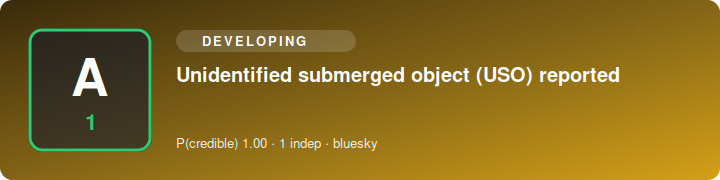
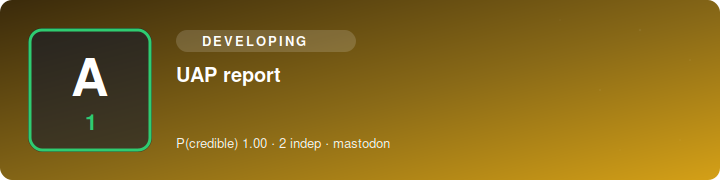
SITREP 2026-07-28 06:30 UTC

Changed region(s): [[0.2444, 0.3611, 0.8861, 0.4722], [0.4583, 0.75, 0.55, 0.8333], [0.3667, 0.75, 0.3972, 0.8333]]

diff --git a/index.html b/index.html
@@ -1,1 +1,1 @@
-<!doctype html><meta charset=utf-8><title>Science Bob News — SITREP</title><style>body{font:16px/1.5 system-ui,sans-serif;max-width:760px;margin:2rem auto;padding:0 1rem;color:#111}h1{font-size:1.5rem}h2{margin-top:1.6rem;border-bottom:1px solid #ddd;padding-bottom:.2rem}ul{list-style:none;padding:0}li{margin:.9rem 0}.hl{font-weight:600}.meta{color:#555;font-size:.85rem}.src{font-size:.85rem}.vid{font-size:.85rem;margin-top:.15rem}.card{display:block;max-width:100%;height:auto;border-radius:8px;margin:.4rem 0 .5rem}.upd{background:#fde68a;padding:0 .3rem;border-radius:.2rem;font-size:.75rem}.sub{color:#777;font-size:.85rem}footer{color:#777;font-size:.8rem;margin-top:2rem;border-top:1px solid #ddd;padding-top:.6rem}</style><h1>🛸 Science Bob News</h1><div class="sub">UAP / UFO / USO SITREP · updated 2026-07-28 06:20 UTC · automated</div><h2>Corroborated</h2><ul><li><img class="card" src="https://n4hy.github.io/sciencebobnews-site/card_c_1.svg" alt="" width="720" height="180"><div class="hl">UAP report</div><div class="meta">reliability <b>A1</b> · P(credible)=1.0 · 2 independent source(s) · mastodon</div><div class="src"><a href="https://mastodon.online/@KilleansRow/116992126816698625">@KilleansRow@mastodon.online</a> · <a href="https://mysterioustimes.co.uk/2026/07/26/short-story-sunday-the-tide-between-the-stars/">@kdraven@mysterioustimes.co.uk</a></div></li></ul><h2>Developing / unconfirmed</h2><ul><li><img class="card" src="https://n4hy.github.io/sciencebobnews-site/card_d_1.svg" alt="" width="720" height="180"><div class="hl">UAP report</div><div class="meta">reliability <b>A1</b> · P(credible)=1.0 · 1 independent source(s) · mastodon</div><div class="src"><a href="https://mamot.fr/@lacaverneeclairee/116986840363279797">@lacaverneeclairee@mamot.fr</a></div></li><li><img class="card" src="https://n4hy.github.io/sciencebobnews-site/card_d_2.svg" alt="" width="720" height="180"><div class="hl">UAP report</div><div class="meta">reliability <b>A1</b> · P(credible)=1.0 · 1 independent source(s) · mastodon</div><div class="src"><a href="https://masto.nu/@paranormalactivity/116993719916167641">@paranormalactivity@masto.nu</a></div></li><li><img class="card" src="https://n4hy.github.io/sciencebobnews-site/card_d_3.svg" alt="" width="720" height="180"><div class="hl">Official UAP statement reported</div><div class="meta">reliability <b>A1</b> · P(credible)=1.0 · 1 independent source(s) · mastodon</div><div class="src"><a href="https://mastodon.au/@vibewire/116992901755718617">@vibewire@mastodon.au</a></div></li><li><img class="card" src="https://n4hy.github.io/sciencebobnews-site/card_d_4.svg" alt="" width="720" height="180"><div class="hl">UAP whistleblower testimony reported</div><div class="meta">reliability <b>A1</b> · P(credible)=1.0 · 1 independent source(s) · mastodon</div><div class="src"><a href="https://mastodon.social/@ScienceBob/116996073990694641">@ScienceBob</a></div></li><li><img class="card" src="https://n4hy.github.io/sciencebobnews-site/card_d_5.svg" alt="" width="720" height="180"><div class="hl">Unidentified submerged object (USO) reported</div><div class="meta">reliability <b>A1</b> · P(credible)=1.0 · 1 independent source(s) · bluesky</div><div class="src"><a href="https://bsky.app/profile/did:plc:oing4g7olwnzpcrkpymkv4lo/post/3mrorecljtw2q">@did:plc:oing4g7olwnzpcrkpymkv4lo</a></div></li></ul><footer><b>Powered by Science Bob News.</b> Free to use with credit (see LICENSE). Headlines are factual restatements in the engine's own words; click sources for originals. Single-origin reposts collapse to one source; prosaic candidates flagged where offered.</footer>
+<!doctype html><meta charset=utf-8><title>Science Bob News — SITREP</title><style>body{font:16px/1.5 system-ui,sans-serif;max-width:760px;margin:2rem auto;padding:0 1rem;color:#111}h1{font-size:1.5rem}h2{margin-top:1.6rem;border-bottom:1px solid #ddd;padding-bottom:.2rem}ul{list-style:none;padding:0}li{margin:.9rem 0}.hl{font-weight:600}.meta{color:#555;font-size:.85rem}.src{font-size:.85rem}.vid{font-size:.85rem;margin-top:.15rem}.card{display:block;max-width:100%;height:auto;border-radius:8px;margin:.4rem 0 .5rem}.upd{background:#fde68a;padding:0 .3rem;border-radius:.2rem;font-size:.75rem}.sub{color:#777;font-size:.85rem}footer{color:#777;font-size:.8rem;margin-top:2rem;border-top:1px solid #ddd;padding-top:.6rem}</style><h1>🛸 Science Bob News</h1><div class="sub">UAP / UFO / USO SITREP · updated 2026-07-28 06:30 UTC · automated</div><h2>Corroborated</h2><ul><li><img class="card" src="https://n4hy.github.io/sciencebobnews-site/card_c_1.svg" alt="" width="720" height="180"><div class="hl">UAP report</div><div class="meta">reliability <b>A1</b> · P(credible)=1.0 · 2 independent source(s) · mastodon</div><div class="src"><a href="https://mastodon.online/@KilleansRow/116992126816698625">@KilleansRow@mastodon.online</a> · <a href="https://mysterioustimes.co.uk/2026/07/26/short-story-sunday-the-tide-between-the-stars/">@kdraven@mysterioustimes.co.uk</a></div></li></ul><h2>Developing / unconfirmed</h2><ul><li><img class="card" src="https://n4hy.github.io/sciencebobnews-site/card_d_1.svg" alt="" width="720" height="180"><div class="hl">UAP report</div><div class="meta">reliability <b>A1</b> · P(credible)=1.0 · 1 independent source(s) · mastodon</div><div class="src"><a href="https://mamot.fr/@lacaverneeclairee/116986840363279797">@lacaverneeclairee@mamot.fr</a></div></li><li><img class="card" src="https://n4hy.github.io/sciencebobnews-site/card_d_2.svg" alt="" width="720" height="180"><div class="hl">UAP report</div><div class="meta">reliability <b>A1</b> · P(credible)=1.0 · 1 independent source(s) · mastodon</div><div class="src"><a href="https://masto.nu/@paranormalactivity/116993719916167641">@paranormalactivity@masto.nu</a></div></li><li><img class="card" src="https://n4hy.github.io/sciencebobnews-site/card_d_3.svg" alt="" width="720" height="180"><div class="hl">Official UAP statement reported</div><div class="meta">reliability <b>A1</b> · P(credible)=1.0 · 1 independent source(s) · mastodon</div><div class="src"><a href="https://mastodon.au/@vibewire/116992901755718617">@vibewire@mastodon.au</a></div></li><li><img class="card" src="https://n4hy.github.io/sciencebobnews-site/card_d_4.svg" alt="" width="720" height="180"><div class="hl">UAP whistleblower testimony reported</div><div class="meta">reliability <b>A1</b> · P(credible)=1.0 · 1 independent source(s) · mastodon</div><div class="src"><a href="https://mastodon.social/@ScienceBob/116996073990694641">@ScienceBob</a></div></li><li><img class="card" src="https://n4hy.github.io/sciencebobnews-site/card_d_5.svg" alt="" width="720" height="180"><div class="hl">UAP report</div><div class="meta">reliability <b>A1</b> · P(credible)=1.0 · 2 independent source(s) · mastodon</div><div class="src"><a href="https://www.nytimes.com/2026/07/26/us/paul-andrews-dead.html">@nyt_us@robot.villas</a> · <a href="https://www.nytimes.com/2026/07/26/us/paul-andrews-dead.html">@nyt_science@robot.villas</a></div></li></ul><footer><b>Powered by Science Bob News.</b> Free to use with credit (see LICENSE). Headlines are factual restatements in the engine's own words; click sources for originals. Single-origin reposts collapse to one source; prosaic candidates flagged where offered.</footer>

diff --git a/sitrep.md b/sitrep.md
@@ -1,5 +1,5 @@
 # 🛸 Science Bob News — UAP / UFO / USO SITREP
-*Updated 2026-07-28 06:20 UTC · auto-generated · sources credited & linked · reliability ratings are automated, not editorial*
+*Updated 2026-07-28 06:30 UTC · auto-generated · sources credited & linked · reliability ratings are automated, not editorial*
 
 ## Corroborated
 
@@ -26,9 +26,9 @@
 4. UAP whistleblower testimony reported — reliability A1 · 1 source(s)  
    [@ScienceBob](https://mastodon.social/@ScienceBob/116996073990694641)
 
-![Unidentified submerged object (USO) reported](https://n4hy.github.io/sciencebobnews-site/card_d_5.svg)
-5. Unidentified submerged object (USO) reported — reliability A1 · 1 source(s)  
-   [@did:plc:oing4g7olwnzpcrkpymkv4lo](https://bsky.app/profile/did:plc:oing4g7olwnzpcrkpymkv4lo/post/3mrorecljtw2q)
+![UAP report](https://n4hy.github.io/sciencebobnews-site/card_d_5.svg)
+5. UAP report — reliability A1 · 2 source(s)  
+   [@nyt_us@robot.villas](https://www.nytimes.com/2026/07/26/us/paul-andrews-dead.html) · [@nyt_science@robot.villas](https://www.nytimes.com/2026/07/26/us/paul-andrews-dead.html)
 
 ---
 *Powered by Science Bob News. Free to use with credit (see LICENSE). Headlines are factual restatements in the engine's own words — click through to the linked sources for originals. Reposts of a single origin are collapsed to one source; candidate prosaic explanations are flagged where offered.*
